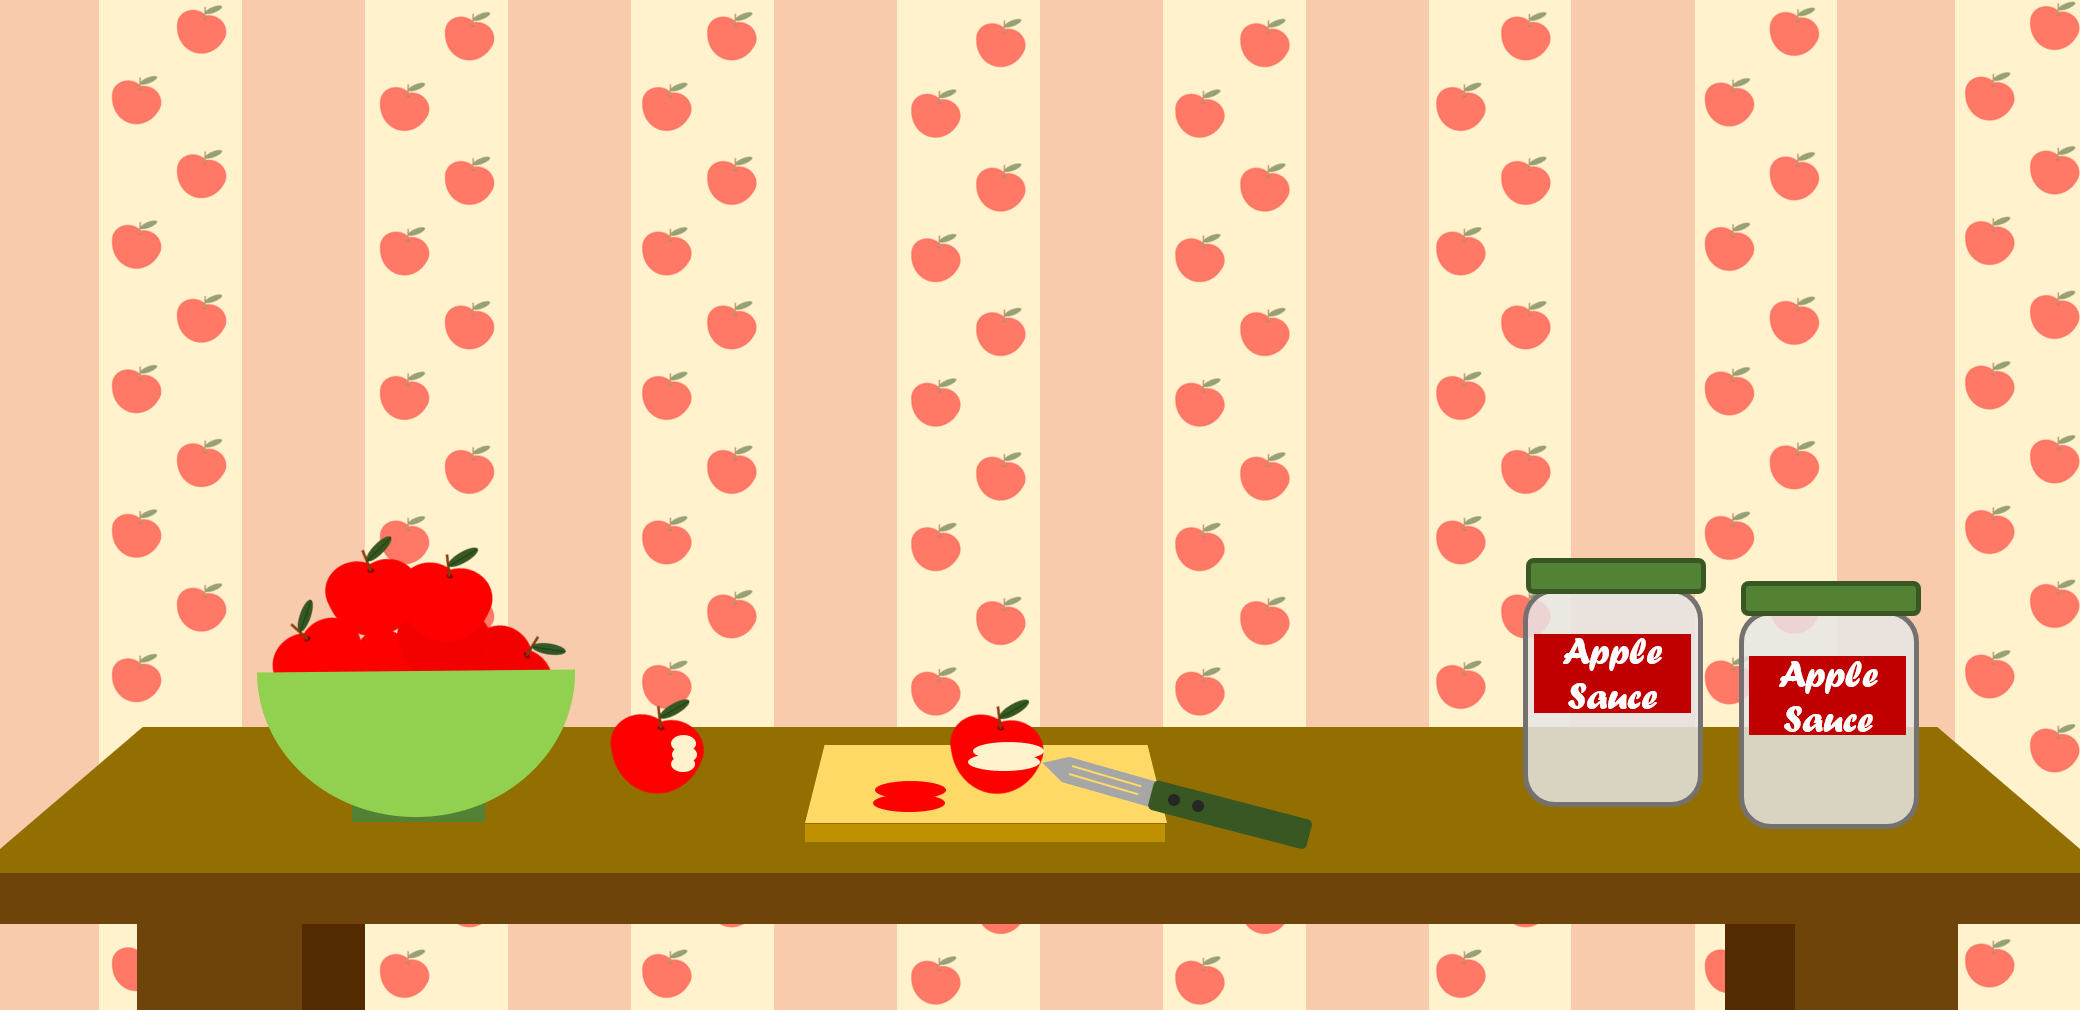
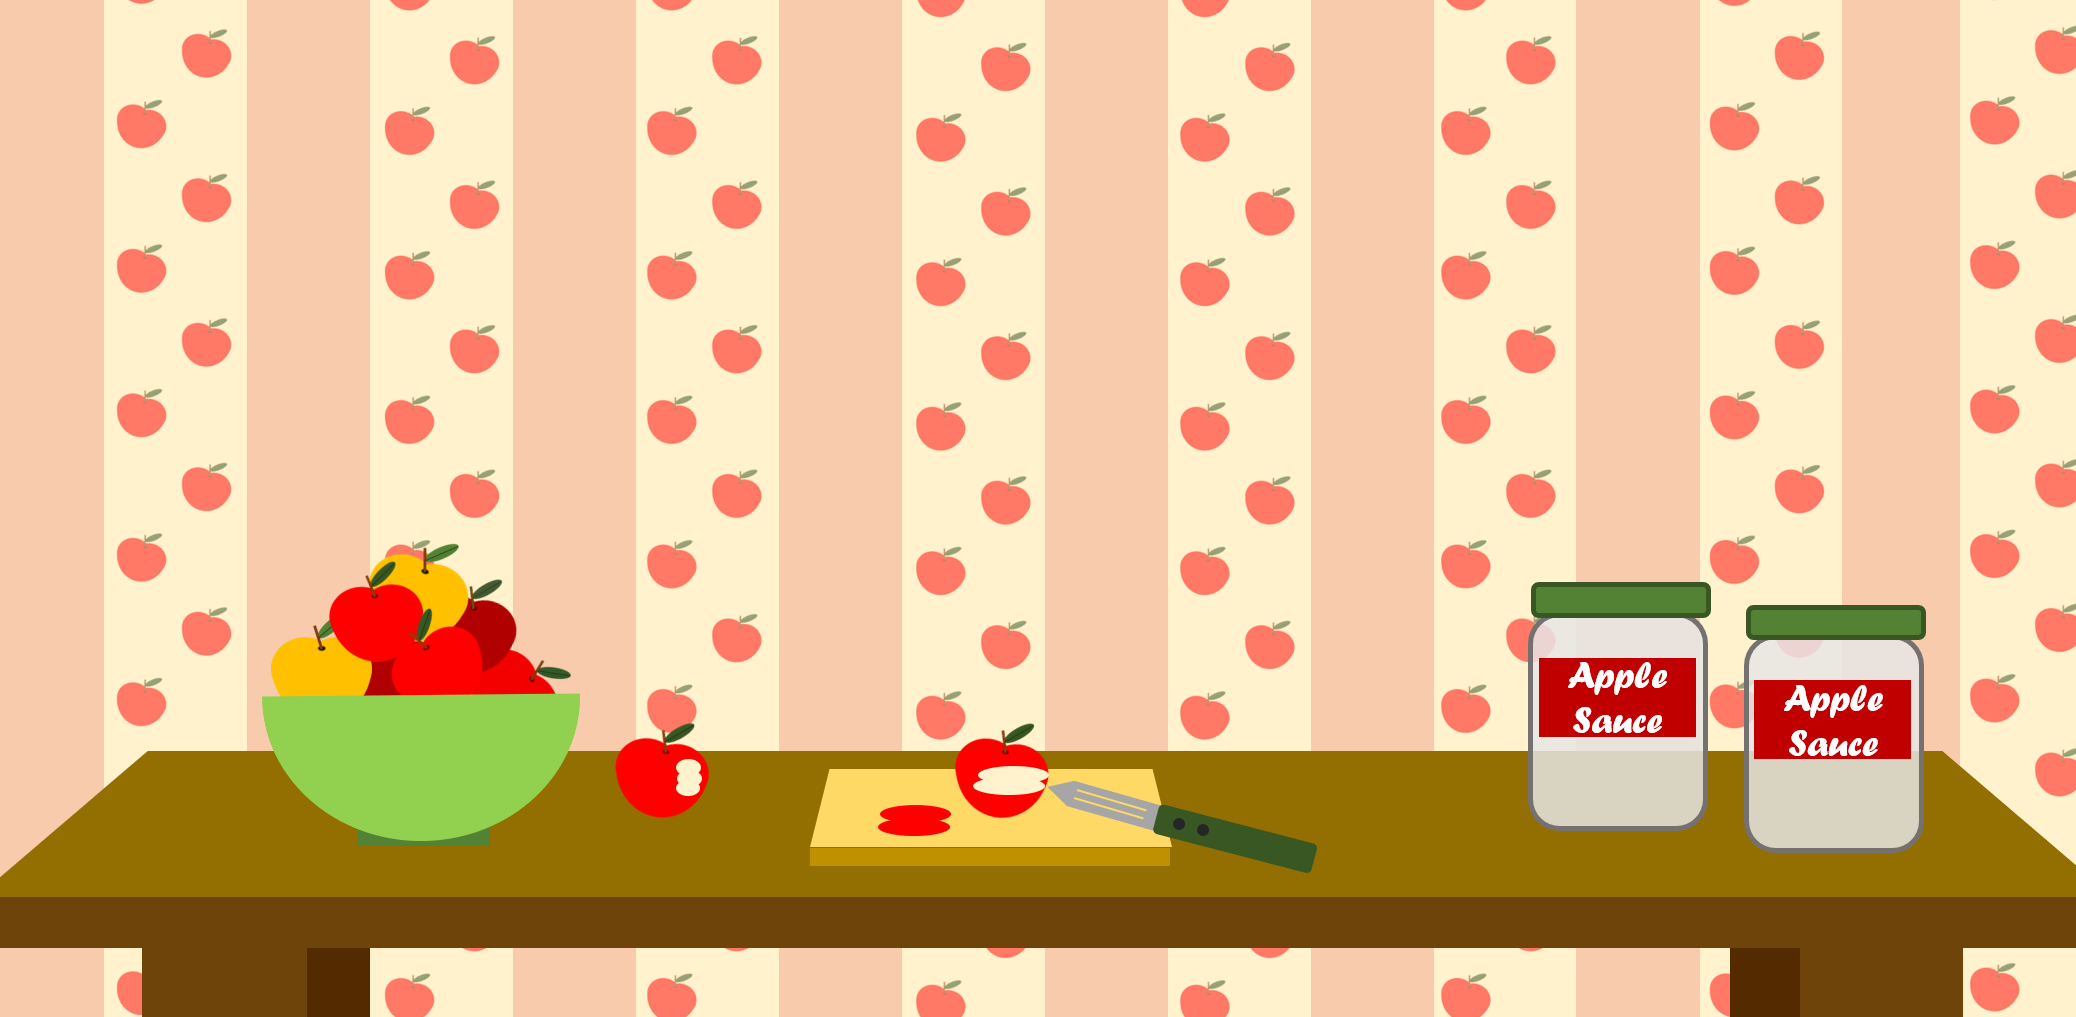
pommes jaunes fond decran

diff --git a/index.js b/index.js
@@ -105,7 +105,7 @@ function applesFalling (){
 function bunnyAttacking (bunny){
     let bunnyRect = bunny.getBoundingClientRect();
     let screenLimit = document.body.getBoundingClientRect();
-    bunnyRect.y = bunnyRect.y + 2;
+    bunnyRect.y = bunnyRect.y + 3;
     if (bunnyRect.y < (screenLimit.height-195)){
     bunny.style.transform=`translateY(${bunnyRect.y}px)`;
 } else{

diff --git a/index.html b/index.html
@@ -47,7 +47,7 @@
             <h1></h1>
             <h2></h2>
         </div>
-        <button class="restart-button">I need more!</button>
+        <button class="restart-button">I want more!</button>
     </section>
     
 <script src="./the_game.js"></script>
